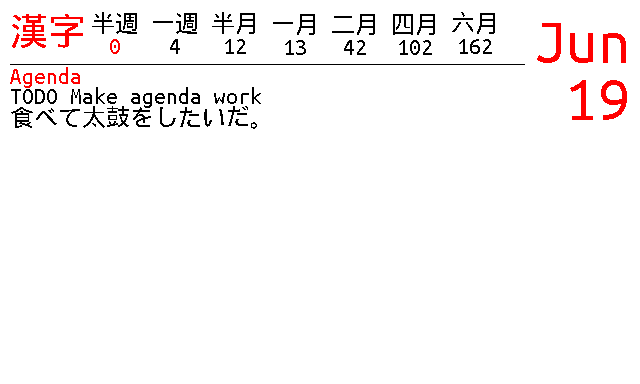
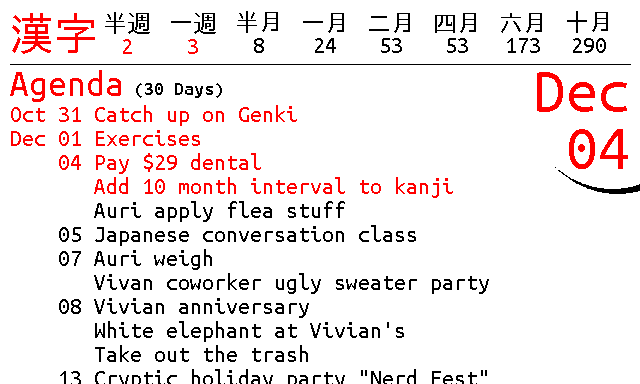
Updated font and added 10-month interval
* I now use a proper Japanese font instead of a Chinese font (which
  was confusing me, a beginner Japanese learner)
* Added 10 month study interval (I got to that interval in my physical
  cards with my ad-hoc spaced repetition schedule)
* Moved layout around to accomodate more kanji study intervals
* Updated readme with output image

diff --git a/HomeLifeDisplay.py b/HomeLifeDisplay.py
@@ -23,8 +23,8 @@ debugEnableAPIRequests = False
 #  if Dropbox is disabled
 dropboxRequiredForAgendaSync = False
 
-debugEnableEPaperDisplay = True
-# debugEnableEPaperDisplay = False
+# debugEnableEPaperDisplay = True
+debugEnableEPaperDisplay = False
 
 """
 Settings
@@ -121,13 +121,16 @@ def imageConvertMode1BPPToRGB(image):
 
 # Fonts
 # For Japanese
-fontMicrohei = ImageFont.truetype('/usr/share/fonts/truetype/wqy/wqy-microhei.ttc', 24)
-fontMicroheiHuge = ImageFont.truetype('/usr/share/fonts/truetype/wqy/wqy-microhei.ttc', 38)
+fontJapanese = ImageFont.truetype('/usr/share/fonts/truetype/fonts-japanese-gothic.ttf', 24)
+fontJapaneseHuge = ImageFont.truetype('/usr/share/fonts/truetype/fonts-japanese-gothic.ttf', 44)
 # For English
 fontUbuntuMonoSmall = ImageFont.truetype('ubuntu-font-family-0.83/UbuntuMono-R.ttf', 20)
 fontUbuntuMono = ImageFont.truetype('ubuntu-font-family-0.83/UbuntuMono-R.ttf', 24)
 fontUbuntuMonoMedium = ImageFont.truetype('ubuntu-font-family-0.83/UbuntuMono-R.ttf', 38)
 fontUbuntuMonoHuge = ImageFont.truetype('ubuntu-font-family-0.83/UbuntuMono-R.ttf', 64)
+# These are actually chinese fonts, that will support Japanese with some (confusing) variations
+# fontMicrohei = ImageFont.truetype('/usr/share/fonts/truetype/wqy/wqy-microhei.ttc', 24)
+# fontMicroheiHuge = ImageFont.truetype('/usr/share/fonts/truetype/wqy/wqy-microhei.ttc', 38)
 
 class Layout:
     def __init__(self):
@@ -151,7 +154,8 @@ def drawLayout1BPPImage(agendaList):
     dateString = timeNow.strftime("%b\n%d")
     # Right align by getting text size
     dateTextSize = draw.multiline_textsize(dateString, font = fontUbuntuMonoHuge)
-    circleOffset = (-23, 34)
+    dateTextHorizontalOffset = layout.topHeader - 15
+    circleOffset = (-23, 34 + dateTextHorizontalOffset)
     # draw.arc((epd7in5.EPD_WIDTH - (dateTextSize[0]) + circleOffset[0],
     #           -dateTextSize[1] + circleOffset[1],
     #           epd7in5.EPD_WIDTH + (dateTextSize[0]) + circleOffset[0],
@@ -171,7 +175,9 @@ def drawLayout1BPPImage(agendaList):
                   epd7in5.EPD_WIDTH + (dateTextSize[0]) + circleOffset[0] - 5,
                   dateTextSize[1] + circleOffset[1] - 5),
                  fill = Color_EPaper_White)
-    draw.multiline_text((epd7in5.EPD_WIDTH - dateTextSize[0] - layout.margins, layout.margins), dateString,
+    draw.multiline_text((epd7in5.EPD_WIDTH - dateTextSize[0] - layout.margins,
+                         layout.margins + dateTextHorizontalOffset),
+                        dateString,
                         font = fontUbuntuMonoHuge, fill = Color_EPaper_Red, align = "right")
 
     #
@@ -179,14 +185,14 @@ def drawLayout1BPPImage(agendaList):
     #
     headerLabel = u'日本語'
     headerLabel = u'漢字'
-    draw.text((layout.margins, layout.margins), headerLabel, font = fontMicroheiHuge, fill = Color_EPaper_Red)
-    headerLabelSize = draw.textsize(headerLabel, font = fontMicroheiHuge)
+    draw.text((layout.margins, layout.margins), headerLabel, font = fontJapaneseHuge, fill = Color_EPaper_Red)
+    headerLabelSize = draw.textsize(headerLabel, font = fontJapaneseHuge)
 
     # Study review schedule
     # Interval:days
     # kanjiScheduleIntervals = [('T', 3), ('W', 7), ('BM', 15), ('M', 30), ('2M', 60), ('4M', 120), ('6M', 180)]
     kanjiScheduleIntervalsJapanese = [(u'半週', 3) ,(u'一週', 7), (u'半月', 15),
-                                      (u'一月', 30), (u'二月', 2 * 30), (u'四月', 4 * 30), (u'六月', 6 * 30)]
+                                      (u'一月', 30), (u'二月', 2 * 30), (u'四月', 4 * 30), (u'六月', 6 * 30), (u'十月', 10 * 30)]
     # Keeping the labels only as comments, effectively
     kanjiScheduleStartDates = [('T', datetime.date(2019, 6, 15)),
                                ('W', datetime.date(2019, 6, 1)),
@@ -194,13 +200,14 @@ def drawLayout1BPPImage(agendaList):
                                ('M', datetime.date(2019, 6, 1)),
                                ('2M', datetime.date(2019, 5, 31)),
                                ('4M', datetime.date(2019, 5, 31)),
-                               ('6M', datetime.date(2019, 5, 31))]
+                               ('6M', datetime.date(2019, 5, 31)),
+                               ('10M', datetime.date(2019, 11, 24))]
     # Interval countdowns
     # TODO These don't match up to my actual schedule quite right yet
     for i in range(len(kanjiScheduleIntervalsJapanese)):
         label = kanjiScheduleIntervalsJapanese[i][0]
-        labelSize = draw.textsize(label, fontMicrohei)
-        labelWithSpaceSize = draw.textsize(label + u"  ", fontMicrohei) 
+        labelSize = draw.textsize(label, fontJapanese)
+        labelWithSpaceSize = draw.textsize(label + u"   ", fontJapanese) 
 
         date = kanjiScheduleStartDates[i]
         countdownDays = ((kanjiScheduleIntervalsJapanese[i][1] -
@@ -220,13 +227,13 @@ def drawLayout1BPPImage(agendaList):
         countdownColor = Color_EPaper_Red if countdownDays <= 3 else Color_EPaper_Black
         
         draw.text((scheduleMargin + intervalOffset, layout.margins),
-                  label, font = fontMicrohei, fill = Color_EPaper_Black)
+                  label, font = fontJapanese, fill = Color_EPaper_Black)
         draw.text((scheduleMargin + intervalOffset + countdownCenterAlign, layout.margins + labelSize[1]),
                   countdownDaysText, font = fontUbuntuMono, fill = countdownColor, align = "right")
             
     # Divider
     draw.line((layout.margins, layout.topHeader,
-               epd7in5.EPD_WIDTH - dateTextSize[0] - layout.margins - layout.topHeaderRightMargin, layout.topHeader),
+               epd7in5.EPD_WIDTH - layout.margins, layout.topHeader),
               fill = Color_EPaper_Black)
 
     #
@@ -287,7 +294,7 @@ def drawLayout1BPPImage(agendaList):
     # draw.multiline_text((layout.margins, layout.topHeader + 20), agendaStr,
                         # font = fontUbuntuMono, fill = Color_EPaper_Black)
     # draw.text((layout.margins, layout.topHeader + 20), 'TODO Make agenda work', font = fontUbuntuMono, fill = Color_EPaper_Black)
-    # draw.text((layout.margins, layout.topHeader + 40), u'食べて太鼓をしたいだ。', font = fontMicrohei, fill = Color_EPaper_Black)
+    # draw.text((layout.margins, layout.topHeader + 40), u'食べて太鼓をしたいだ。', font = fontJapanese, fill = Color_EPaper_Black)
     
     # draw.line((70, 50, 20, 100), fill = 0)
     # draw.rectangle((20, 50, 70, 100), outline = 0)
